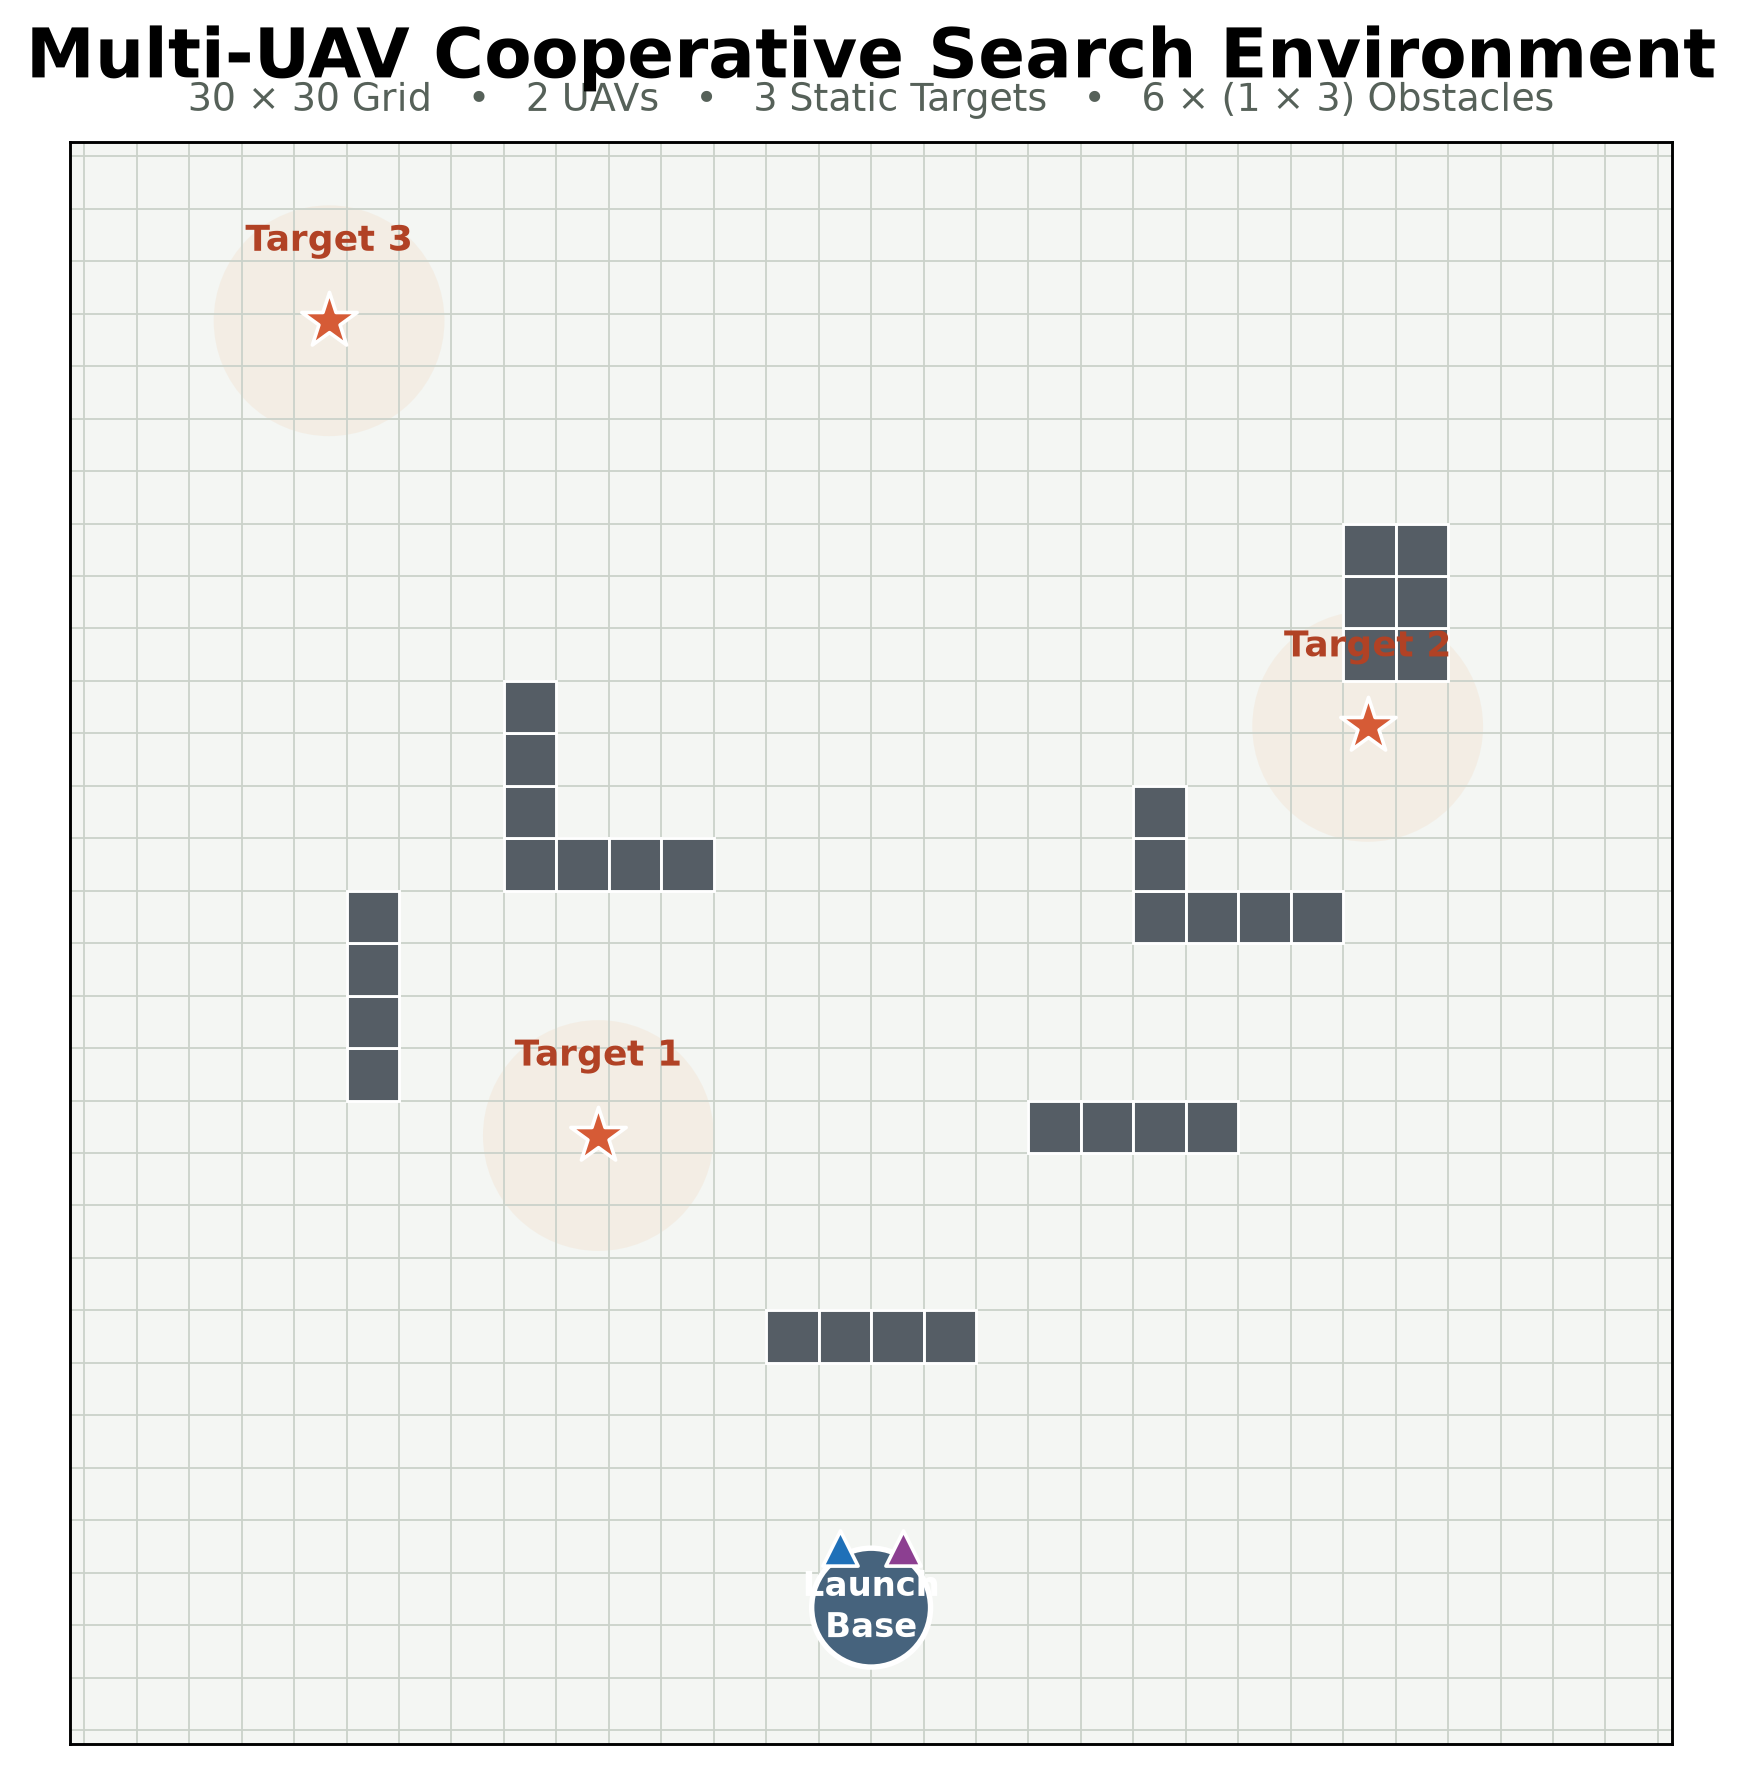
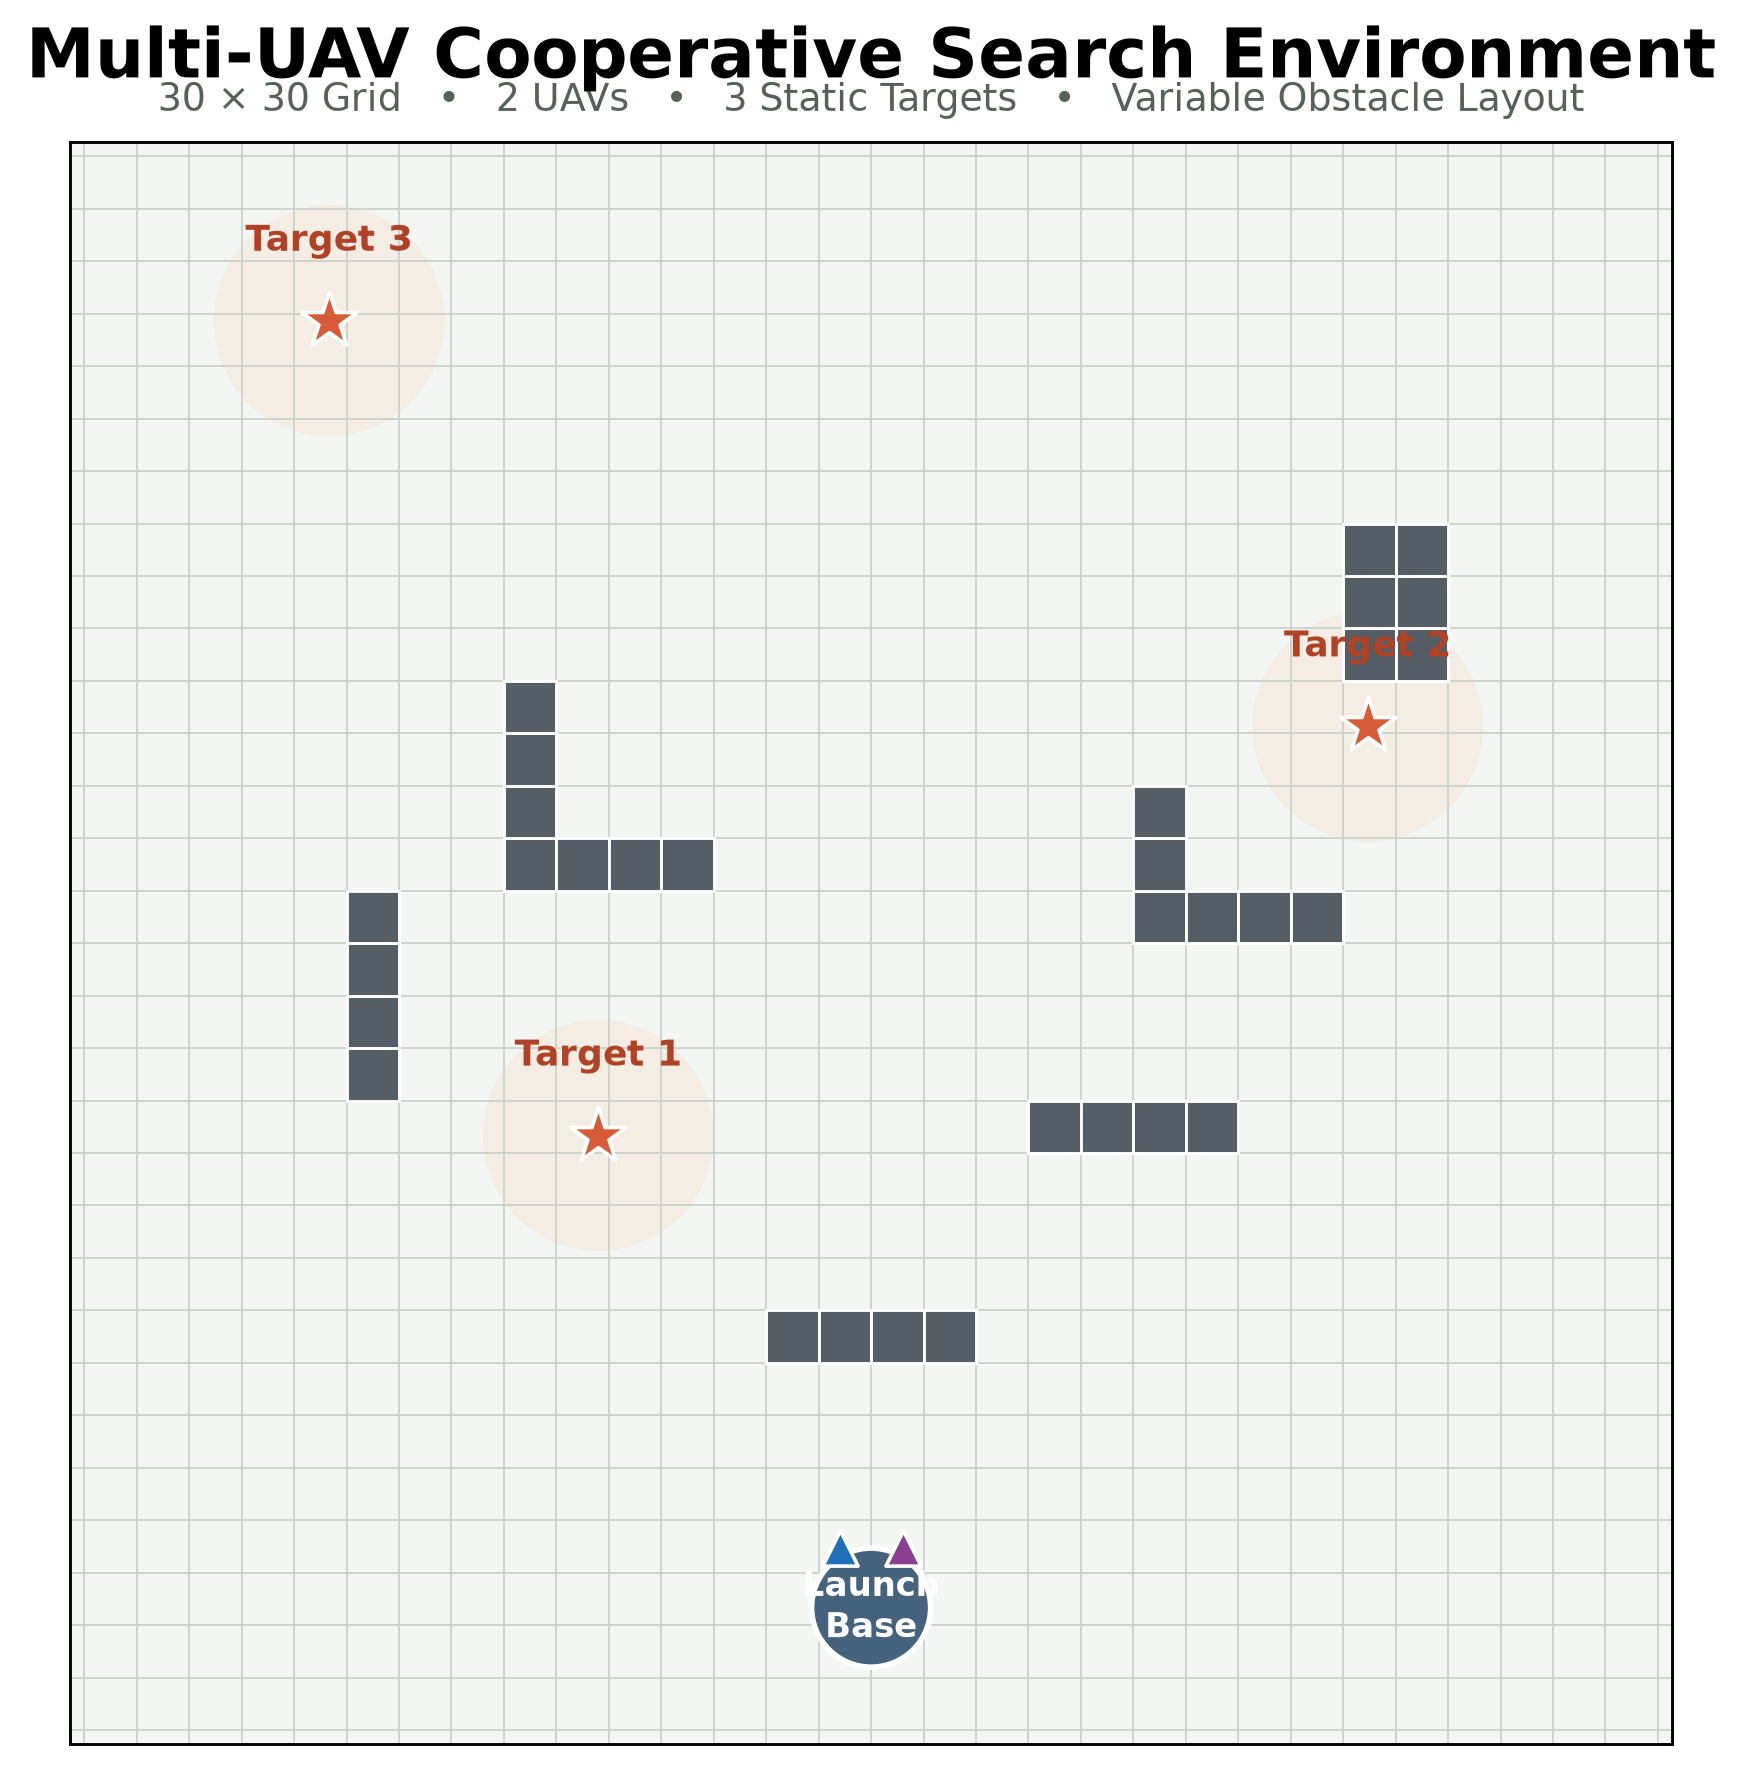
Update environment map for variable obstacles

diff --git a/make_site_diagram.py b/make_site_diagram.py
@@ -37,7 +37,7 @@ def main() -> None:
     axis.tick_params(length=0)
     axis.grid(color="#cbd2ca", linewidth=0.5)
     axis.set_title("Multi-UAV Cooperative Search Environment", fontsize=19, fontweight="semibold", pad=18)
-    axis.text(0, env.boundary + 0.13, "30 × 30 Grid   •   2 UAVs   •   3 Static Targets   •   6 × (1 × 3) Obstacles", ha="center", color="#566159", fontsize=10.5)
+    axis.text(0, env.boundary + 0.13, "30 × 30 Grid   •   2 UAVs   •   3 Static Targets   •   Variable Obstacle Layout", ha="center", color="#566159", fontsize=10.5)
 
     for x, y in np.argwhere(data["obstacles"]):
         lower_left = -env.boundary + np.array([x, y]) * env.cell_width
